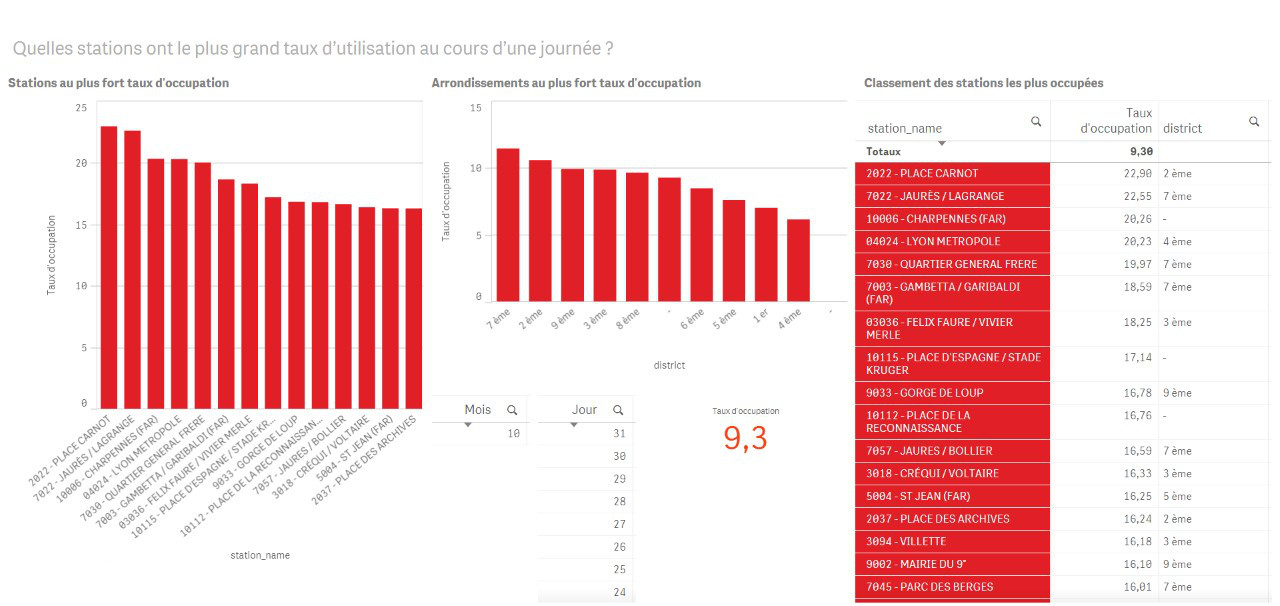
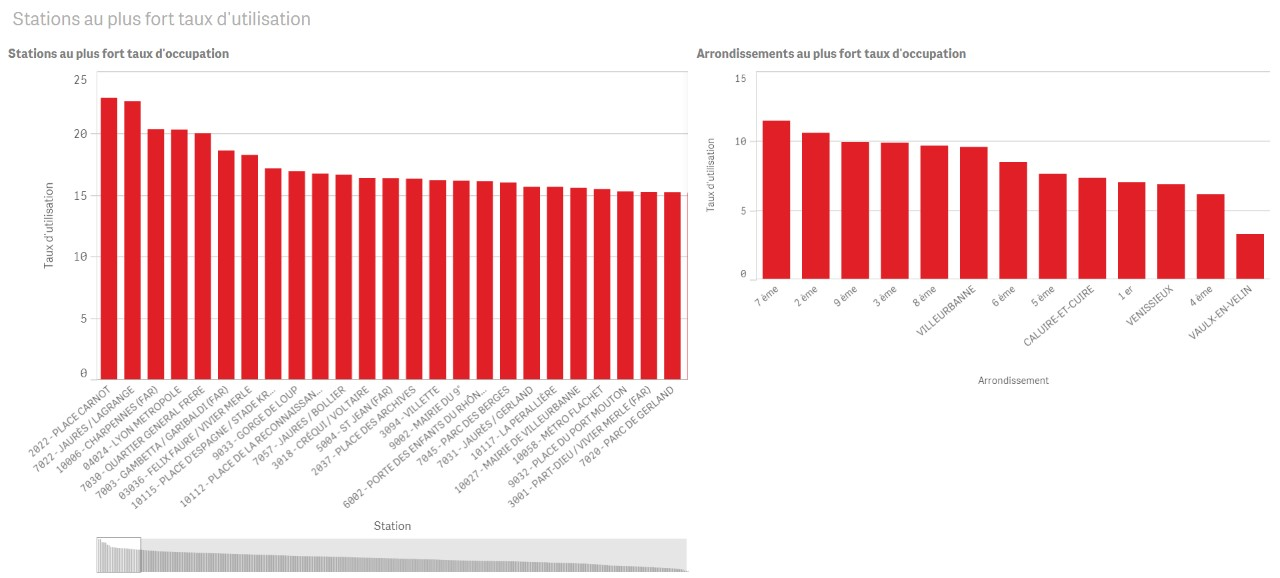
Push #21 : Added last KPI, and clear graphics
Added pictures and graphics for KPI 1, 2, 3, 4
Modified some graphics to be line instead of bar, to be clearer

diff --git a/scripts/script.js b/scripts/script.js
@@ -62,6 +62,188 @@ function declareEvents(){
 }
 
 var chartAttributes = {
+	"chartkpi01-1": {
+		type: 'bar',
+		data: {
+			labels: ["2022 - Place Carnot", "7022 - Jaurès / Lagrange", "10006 - Charpennes (FAR)", "4024 - Lyon Métropole", "7030 - Quartie Général Frère", "7003 - Gambetta / Garibaldi (FAR)", "3036 - Félix Faure / Vivier Merle"],
+			datasets: [{
+				label: 'Stations au plus fort taux d\'occupation',
+				data: [22.8, 22.5, 20.3, 20.3, 20, 18.6, 18.2],
+				backgroundColor: 'rgb(225,31,38)'
+			}]
+		},
+		
+		options: {
+			animation: {
+				onProgress: drawBarValues,
+				onComplete: drawBarValues
+			},
+			maintainAspectRatio: false,
+			title: {
+				display: true,
+				text: "Stations au plus fort taux d'occupation"
+			},
+			scales: {
+				yAxes: [{
+					ticks: {
+						beginAtZero:true
+					}
+				}]
+			}
+		}
+	},
+	"chartkpi01-2": {
+		type: 'bar',
+		data: {
+			labels: ["7ème", "2ème", "9ème", "3ème", "8ème", "Villeurbanne", "6ème", "5ème", "Caluire-et-Cuire", "1er", "4ème", "Vaulx-en-Velin"],
+			datasets: [{
+				label: 'Arrondissements au plus fort taux d\'occupation',
+				data: [11.4, 10.5, 9.9, 9.8, 9.6, 9.5, 8.4, 7.6, 7.3, 7, 6.1, 3.2],
+				backgroundColor: 'rgb(225,31,38)'
+			}]
+		},
+		
+		options: {
+			animation: {
+				onProgress: drawBarValues,
+				onComplete: drawBarValues
+			},
+			maintainAspectRatio: false,
+			title: {
+				display: true,
+				text: "Arrondissements au plus fort taux d'occupation"
+			},
+			scales: {
+				yAxes: [{
+					ticks: {
+						beginAtZero:true
+					}
+				}]
+			}
+		}
+	},
+	"chartkpi02-1": {
+		type: 'bar',
+		data: {
+			labels: ["9052 - Balmont", "9050 - Allée de l'Europe", "9051 - Andrei Sakharov", "4005 - Place Bertone", "8003 - Claude Bernard Lyon 1", "4009 - Jacquard / Denfert-Rochereau", "8059 - Laennec / Pinel", "10013 - Cusset", "4041 - Boussanges / Austerlitz"],
+			datasets: [{
+				label: 'Stations au plus faible taux d\'occupation',
+				data: [0.6, 0.6, 1, 1.6, 1.8, 1.9, 2, 2.2, 2.4],
+				backgroundColor: 'rgb(225,31,38)'
+			}]
+		},
+		
+		options: {
+			animation: {
+				onProgress: drawBarValues,
+				onComplete: drawBarValues
+			},
+			maintainAspectRatio: false,
+			title: {
+				display: true,
+				text: "Stations au plus faible taux d'occupation"
+			},
+			scales: {
+				yAxes: [{
+					ticks: {
+						beginAtZero:true
+					}
+				}]
+			}
+		}
+	},
+	"chartkpi02-2": {
+		type: 'bar',
+		data: {
+			labels: ["Vaulx-en-Velin", "4ème", "1er", "Caluire-et-Cuire", "5ème", "6ème", "Villeurbanne", "8ème", "3ème", "9ème", "2ème", "7ème"],
+			datasets: [{
+				label: 'Arrondissements au plus faible taux d\'occupation',
+				data: [3.2, 6.1, 7, 7.3, 7.6, 8.4, 9.5, 9.6, 9.8, 9.9, 10.5, 11.4],
+				backgroundColor: 'rgb(225,31,38)'
+			}]
+		},
+		
+		options: {
+			animation: {
+				onProgress: drawBarValues,
+				onComplete: drawBarValues
+			},
+			maintainAspectRatio: false,
+			title: {
+				display: true,
+				text: "Arrondissements au plus faible taux d'occupation"
+			},
+			scales: {
+				yAxes: [{
+					ticks: {
+						beginAtZero:true
+					}
+				}]
+			}
+		}
+	},
+	"chartkpi03-1": {
+		type: 'line',
+		data: {
+			labels: ["09_10_2016", "10_10_2016", "11_10_2016", "12_10_2016", "13_10_2016", "14_10_2016", "15_10_2016", "16_10_2016", "17_10_2016", "18_10_2016", "19_10_2016", "20_10_2016", "21_10_2016"],
+			datasets: [{
+				label: 'Nombre de stations apparaissant vides dans la journée',
+				fill: false,
+				data: [145, 236, 241, 247, 143, 167, 228, 168, 204, 234, 222, 229, 159],
+				backgroundColor: 'rgb(225,31,38)'
+			}]
+		},
+		
+		options: {
+			animation: {
+				onProgress: drawBarValues,
+				onComplete: drawBarValues
+			},
+			maintainAspectRatio: false,
+			title: {
+				display: true,
+				text: "Nombre de stations apparaissant vides dans la journée"
+			},
+			scales: {
+				yAxes: [{
+					ticks: {
+						beginAtZero:true
+					}
+				}]
+			}
+		}
+	},
+	"chartkpi04-1": {
+		type: 'line',
+		data: {
+			labels: ["09_10_2016", "10_10_2016", "11_10_2016", "12_10_2016", "13_10_2016", "14_10_2016", "15_10_2016", "16_10_2016", "17_10_2016", "18_10_2016", "19_10_2016", "20_10_2016", "21_10_2016"],
+			datasets: [{
+				label: 'Nombre de stations apparaissant pleines dans la journée',
+				fill: false,
+				data: [143, 234, 240, 231, 178, 194, 208, 210, 240, 241, 235, 233, 200],
+				backgroundColor: 'rgb(225,31,38)'
+			}]
+		},
+		
+		options: {
+			animation: {
+				onProgress: drawBarValues,
+				onComplete: drawBarValues
+			},
+			maintainAspectRatio: false,
+			title: {
+				display: true,
+				text: "Nombre de stations apparaissant pleines dans la journée"
+			},
+			scales: {
+				yAxes: [{
+					ticks: {
+						beginAtZero:true
+					}
+				}]
+			}
+		}
+	},
 	"chartkpi05": {
 		type: 'line',
 		data: {
@@ -403,11 +585,12 @@ var chartAttributes = {
 		}
 	},
 	"chartkpi13-1": {
-		type: 'bar',
+		type: 'line',
 		data: {
 			labels: ["Lundi", "Mardi", "Mercredi", "Jeudi", "Vendredi", "Samedi", "Dimanche"],
 			datasets: [{
 				label: 'Vélos disponibles en moyenne',
+				fill: false,
 				data: [4380, 4530, 4560, 4160, 3090, 2040, 3450],
 				backgroundColor: 'rgb(225,31,38)'
 			}]
@@ -432,11 +615,12 @@ var chartAttributes = {
 		}
 	},
 	"chartkpi13-2": {
-		type: 'bar',
+		type: 'line',
 		data: {
 			labels: ["Lundi", "Mardi", "Mercredi", "Jeudi", "Vendredi", "Samedi", "Dimanche"],
 			datasets: [{
 				label: 'Vélos disponibles en moyenne',
+				fill: false,
 				data: [4530, 4760, 4790, 4320, 3370, 2190, 3440],
 				backgroundColor: 'rgb(225,31,38)'
 			}]
@@ -461,11 +645,12 @@ var chartAttributes = {
 		}
 	},
 	"chartkpi13-3": {
-		type: 'bar',
+		type: 'line',
 		data: {
 			labels: ["Lundi", "Mardi", "Mercredi", "Jeudi", "Vendredi", "Samedi", "Dimanche"],
 			datasets: [{
 				label: 'Vélos disponibles en moyenne',
+				fill: false,
 				data: [4290, 4390, 4420, 4060, 2920, 1960, 3450],
 				backgroundColor: 'rgb(225,31,38)'
 			}]
@@ -490,11 +675,12 @@ var chartAttributes = {
 		}
 	},
 	"chartkpi14": {
-		type: 'bar',
+		type: 'line',
 		data: {
 			labels: ["Lundi", "Mardi", "Mercredi", "Jeudi", "Vendredi", "Samedi", "Dimanche"],
 			datasets: [{
 				label: 'Vélos disponibles en moyenne',
+				fill: false,
 				data: [4290, 4390, 4420, 4060, 2920, 1960, 3450],
 				backgroundColor: 'rgb(225,31,38)'
 			}]

diff --git a/index.html b/index.html
@@ -130,18 +130,37 @@
 				</span>
 				<div class="col-xs-10 offset-xs-1 card title">
 					<span>KPI #01 : Quelles stations ont le plus grand nombre d'utilisations au cours d'une journée ?</span>
-					<img src="images/kpi/1-1.jpg" class="imgkpi"/>
+					<img src="images/kpi/1-1.jpg" class="imgkpi imgopt"/>
+					<div class="divKpi50">
+						<canvas id="chartkpi01-1" width="400" height="100"></canvas>
+					</div><!--
+					--><div class="divKpi50">
+						<canvas id="chartkpi01-2" width="400" height="100"></canvas>
+					</div>
 				</div>
 				<div class="col-xs-10 offset-xs-1 card title">
 					<span>KPI #02 : Quelles stations sont les moins utilisées pendant une journée ?</span>
-					<img src="images/kpi/2-1.jpg" class="imgkpi"/>
+					<img src="images/kpi/2-1.jpg" class="imgkpi imgopt"/>
+					<div class="divKpi50">
+						<canvas id="chartkpi02-1" width="400" height="100"></canvas>
+					</div><!--
+					--><div class="divKpi50">
+						<canvas id="chartkpi02-2" width="400" height="100"></canvas>
+					</div>
 				</div>
 				<div class="col-xs-10 offset-xs-1 card title">
 					<span>KPI #03 : Quel est le nombre de stations apparaissant sans vélo à au moins un moment de la journée ?</span>
+					<img src="images/kpi/3-1.jpg" class="imgkpi imgopt"/>
+					<div>
+						<canvas id="chartkpi03-1" width="400" height="100"></canvas>
+					</div>
 				</div>
 				<div class="col-xs-10 offset-xs-1 card title">
 					<span>KPI #04 : Combien de stations sont au moins une fois pleine dans une journée ?</span>
-					
+					<img src="images/kpi/4-1.jpg" class="imgkpi imgopt"/>
+					<div>
+						<canvas id="chartkpi04-1" width="400" height="100"></canvas>
+					</div>
 				</div>
 				<div class="col-xs-10 offset-xs-1 card title">
 					<span>KPI #05 : Quel est le nombre de vélos disponibles tout au long de la journée ?</span>
